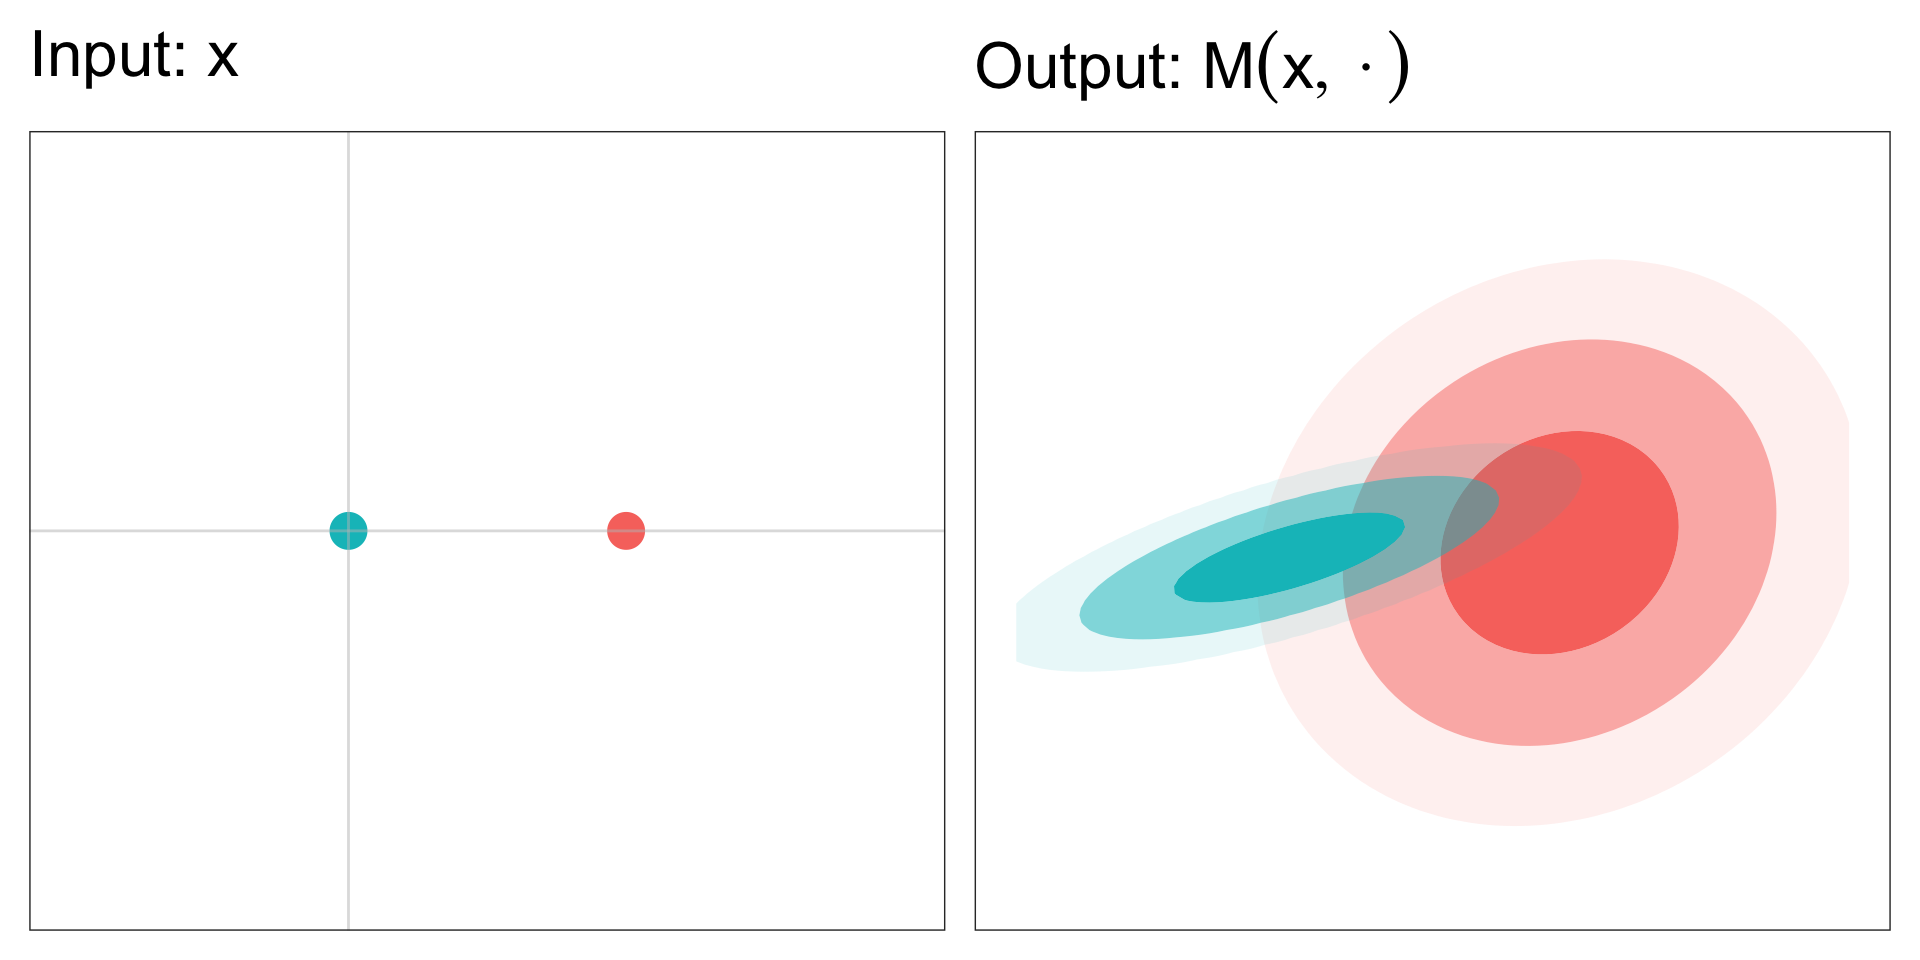
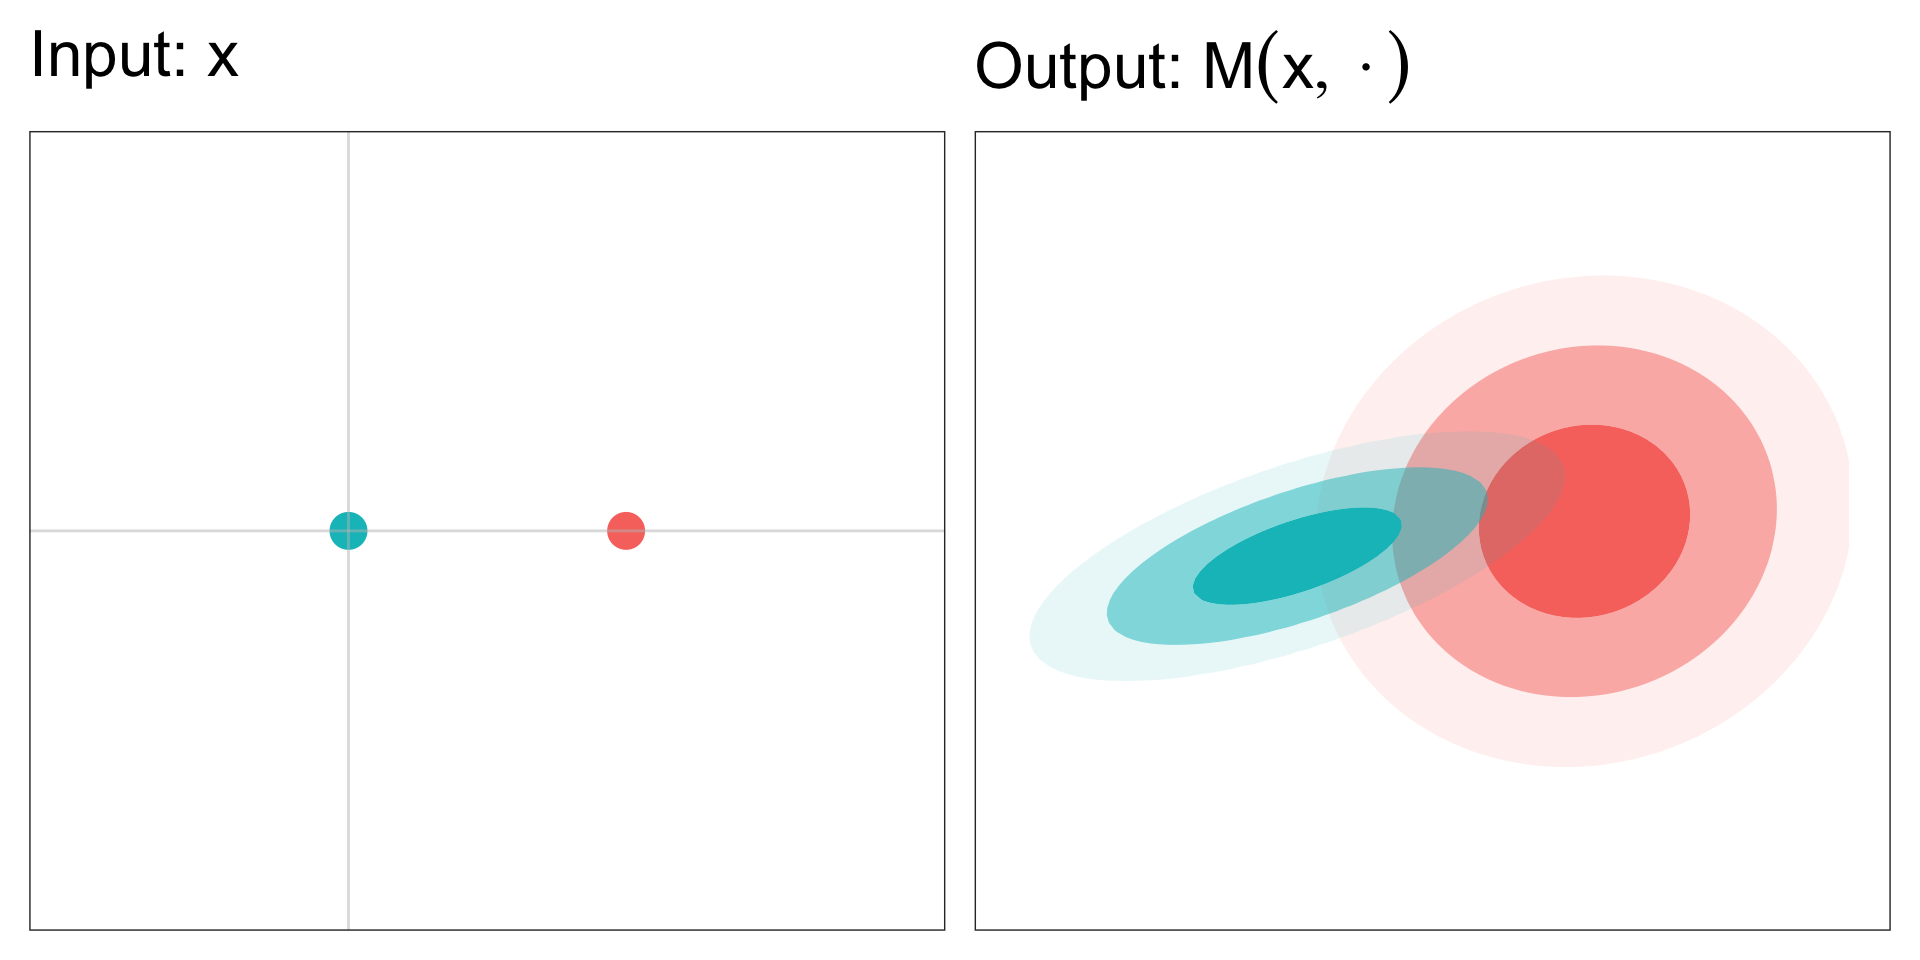
Updates

diff --git a/index.html b/index.html
@@ -246,17 +246,13 @@ Joshua J Bon
 <p><span class="math display">M(x,\cdot) = \mathcal{N}(\overline{x},\sigma^2)</span></p>
 </div>
 </section>
+<section id="dp-intuition" class="slide level2">
+<h2>DP Intuition</h2>
 
-<section id="dp-definition" class="slide level2">
-<h2>DP Definition</h2>
-<p>Borrow from Lipschitz continuity <span class="citation" data-cites="bailie2024general">(<a href="#/references" role="doc-biblioref" onclick="">Bailie and Gong 2024</a>)</span>.</p>
-<div class="fragment">
-<p><span class="math display">d_\text{P}[M(x,\cdot),M(x^\prime,\cdot)] \leq \epsilon~d_\text{X}[x,x^\prime]</span></p>
-</div>
-<div class="fragment">
-<p>for all <span class="math inline">x,x^\prime \in \mathcal{D}</span>.</p>
-</div>
+<img data-src="index_files/figure-revealjs/unnamed-chunk-1-1.png" width="960" class="r-stretch"><p>To limit information leaked about data <span class="math inline">x</span> by statistic <span class="math inline">T</span>,</p>
+<p>control the sensitivity of the mechanism <span class="math inline">M(x,\cdot)</span> w.r.t. <span class="math inline">x</span>.</p>
 </section>
+
 
 <section id="some-dp-properties" class="slide level2">
 <h2>Some DP Properties</h2>
@@ -545,7 +541,7 @@ Joshua J Bon
 <p><strong>Assumption 2: Bayesian adversary</strong></p>
 </div>
 <div class="callout-content">
-<p>Receiver makes Bayesian decisions</p>
+<p>Receiver is Bayes rational</p>
 </div>
 </div>
 </div>
@@ -1744,40 +1740,23 @@ In addition, it is *strictly* proper if $S(P,P) = S(P,Q) \Leftrightarrow P = Q$.
 <section id="why-persuasive" class="slide level2">
 <h2>Why “persuasive”?</h2>
 <div class="fragment">
-<p><em>Sender chooses a mechanism that <strong>persuades</strong> Receiver to make decisions limiting privacy loss..</em></p>
+<p><em>Sender chooses a mechanism that <strong>persuades</strong> Receiver to make decisions limiting privacy loss.</em></p>
 </div>
 <div class="fragment">
-<p>Related to Bayesian persuasion <span class="citation" data-cites="kamenica2011bayesian">(<a href="#/references" role="doc-biblioref" onclick="">Kamenica and Gentzkow 2011</a>)</span> however,</p>
+<p>Related to <strong>Bayesian persuasion</strong><sup>1</sup> but…</p>
 </div>
 <ul>
 <li class="fragment">asymmetry between Sender and Receiver</li>
 <li class="fragment">utility functions of Sender and Receiver are related</li>
 <li class="fragment">Sender assesses decisions (mechanism) robustly: worst-case not expected value</li>
 </ul>
-</section>
+<aside><ol class="aside-footnotes"><li id="fn4"><p><span class="citation" data-cites="kamenica2011bayesian">Kamenica and Gentzkow (<a href="#/references" role="doc-biblioref" onclick="">2011</a>)</span></p></li></ol></aside></section>
 <section id="properties-of-persuasive-privacy" class="slide level2">
 <h2>Properties of Persuasive Privacy</h2>
 <ol type="1">
-<li class="fragment"><p><strong>Composition</strong></p></li>
-<li class="fragment"><p><strong>Receiver post-processing</strong></p></li>
-</ol>
-<div class="fragment">
-<div class="callout callout-note callout-titled callout-style-default">
-<div class="callout-body">
-<div class="callout-title">
-<div class="callout-icon-container">
-<i class="callout-icon"></i>
-</div>
-<p><strong>Definition: Receiver Post-Processing</strong></p>
-</div>
-<div class="callout-content">
-<p>A guarantee <span class="math inline">\mathrm{D}</span> satisfies the receiver post-processing property if <span class="math inline">M \in \mathfrak{C}(\mathrm{D})</span> implies that <span class="math inline">M\otimes K \in \mathfrak{C}(\mathrm{D})</span> for all Markov kernels <span class="math inline">K</span> independent of the data <span class="math inline">x</span>.</p>
-</div>
-</div>
-</div>
-</div>
-<ol start="3" type="1">
-<li class="fragment">Do not satisfy (Sender) post-processing</li>
+<li class="fragment"><p><strong>Composition</strong> <span class="math display">M_i \in \mathfrak{C} \Rightarrow M_1 \otimes M_2 \in \mathfrak{C}^\prime</span></p></li>
+<li class="fragment"><p><strong>Receiver post-processing</strong> <span class="math display">M \in \mathfrak{C} \Rightarrow M \otimes K \in \mathfrak{C}</span></p></li>
+<li class="fragment"><p><strong>Does not</strong> satisfy (Sender) post-processing <span class="math display">M \in \mathfrak{C} \Rightarrow M K \in \mathfrak{C}</span></p></li>
 </ol>
 </section>
 <section id="returning-to-dp" class="slide level2">
@@ -1893,16 +1872,20 @@ In addition, it is *strictly* proper if $S(P,P) = S(P,Q) \Leftrightarrow P = Q$.
 </section>
 <section id="an-invitation-to-bayesian-privacy" class="slide level2">
 <h2>An invitation to (Bayesian) privacy</h2>
+<div class="columns">
+<div class="column" style="width:65%;">
 <ul>
 <li class="fragment"><span class="math inline">Q \in \mathcal{Q}_x</span> <strong>BNP</strong></li>
 <li class="fragment"><span class="math inline">M(x,\cdot)</span> <strong>BayesComp</strong></li>
 <li class="fragment"><span class="math inline">S(P,x)</span> <strong>BayesComp</strong>, <strong>Applied Bayes</strong></li>
 </ul>
-</section>
-<section id="thank-you" class="slide level2">
-<h2>Thank you!</h2>
-
-<img data-src="imgs/crossiant.jpg" class="r-stretch"></section></section>
+<div class="fragment">
+<p><strong>Thank you!</strong></p>
+</div>
+</div><div class="column" style="width:35%;">
+<p><img data-src="imgs/crossiant.jpg"></p>
+</div></div>
+</section></section>
 <section>
 <section id="appendix" class="title-slide slide level1 center">
 <h1>Appendix</h1>